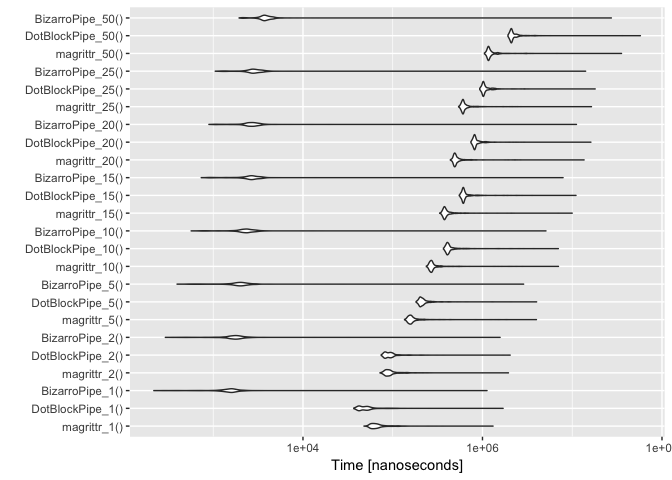
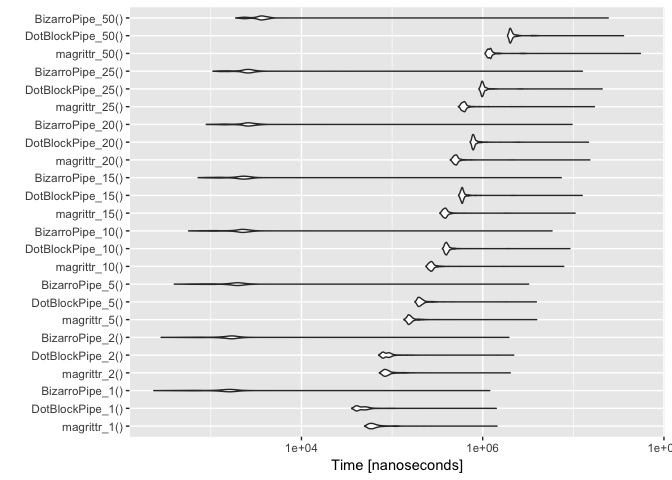
fix names, switch to dot block pipe, re-run

diff --git a/extras/PipePerformance.md b/extras/PipePerformance.md
@@ -6,7 +6,7 @@ So we will compare:
 
 -   `magrittr*` `magrittr::%>%` substitution.
 -   `DotBlockPipe*` `wrapr::%.>%` substitution.
--   `BizarroPipe*` `%->%` substitution.
+-   `BizarroPipe*` `->.;` substitution.
 
 ``` r
 library("microbenchmark")
@@ -100,55 +100,55 @@ print(bm)
 
     ## Unit: nanoseconds
     ##               expr     min        lq        mean    median        uq
-    ##       magrittr_1()   47910   58908.0   71817.553   64412.0   71990.0
-    ##   DotBlockPipe_1()   36828   42499.0   55758.271   48490.5   54572.0
-    ##    BizarroPipe_1()     218    1281.5    2612.513    1535.0    1729.0
-    ##       magrittr_2()   72195   84175.5  102198.356   90608.0   99014.5
-    ##   DotBlockPipe_2()   74504   83037.0  102210.099   90956.5   99263.5
-    ##    BizarroPipe_2()     293    1491.0    4547.017    1736.5    1973.0
-    ##       magrittr_5()  135445  152112.0  183399.108  160059.0  171509.5
-    ##   DotBlockPipe_5()  182178  201129.0  232582.597  211000.5  226030.5
-    ##    BizarroPipe_5()     396    1660.0    4833.152    1962.0    2238.0
-    ##      magrittr_10()  237164  261523.5  309981.789  271636.0  287165.5
-    ##  DotBlockPipe_10()  367742  400036.5  476205.566  414518.5  440082.0
-    ##   BizarroPipe_10()     568    2005.5    7402.956    2312.0    2645.5
-    ##      magrittr_15()  333154  370912.0  431708.445  383412.5  407987.0
-    ##  DotBlockPipe_15()  550780  599005.0  674982.800  616721.0  643054.5
-    ##   BizarroPipe_15()     736    2257.0   10479.704    2639.5    2993.5
-    ##      magrittr_20()  439156  483494.0  562019.036  499247.5  530138.5
-    ##  DotBlockPipe_20()  743924  801646.0  891919.623  824291.5  875714.5
-    ##   BizarroPipe_20()     896    2338.0   13805.195    2657.0    3002.5
-    ##      magrittr_25()  542354  594943.0  675267.448  612798.0  648748.0
-    ##  DotBlockPipe_25()  932516 1006112.0 1127922.400 1035132.0 1106644.5
-    ##   BizarroPipe_25()    1053    2510.5   16928.549    2829.0    3236.5
-    ##      magrittr_50() 1052330 1148805.5 1317047.834 1182381.0 1257919.0
-    ##  DotBlockPipe_50() 1923771 2066405.0 2344830.673 2122579.0 2306038.5
-    ##   BizarroPipe_50()    1944    3469.5   31100.647    3776.0    4194.5
+    ##       magrittr_1()   49785   56912.5   69493.461   61248.0   68033.5
+    ##   DotBlockPipe_1()   35843   40754.5   49773.803   45063.0   51652.5
+    ##    BizarroPipe_1()     235    1007.0    2574.675    1483.5    1738.0
+    ##       magrittr_2()   72442   81543.5   94173.487   86616.0   93575.0
+    ##   DotBlockPipe_2()   71109   79621.0   97903.294   87159.5   95066.5
+    ##    BizarroPipe_2()     283    1224.5    3460.313    1596.5    1815.5
+    ##       magrittr_5()  134732  150432.0  169389.760  156668.5  166102.0
+    ##   DotBlockPipe_5()  178816  195179.0  224559.392  204326.5  217448.0
+    ##    BizarroPipe_5()     395    1409.5    4951.969    1859.0    2124.5
+    ##      magrittr_10()  236226  259765.5  295810.353  271615.5  284856.5
+    ##  DotBlockPipe_10()  359045  387702.0  430698.131  400453.5  417779.0
+    ##   BizarroPipe_10()     569    1690.5    7909.038    2161.0    2454.5
+    ##      magrittr_15()  336208  370699.5  423379.597  386789.0  403934.0
+    ##  DotBlockPipe_15()  541747  581219.5  639857.959  596953.5  616747.5
+    ##   BizarroPipe_15()     725    1643.5    9429.208    2185.0    2486.5
+    ##      magrittr_20()  438164  484500.0  547503.970  506089.5  526963.0
+    ##  DotBlockPipe_20()  726609  773966.5  869269.764  794647.5  824726.5
+    ##   BizarroPipe_20()     890    2054.5   12136.100    2523.0    2842.5
+    ##      magrittr_25()  539184  595130.5  677442.105  623097.5  648832.5
+    ##  DotBlockPipe_25()  908188  972307.5 1068904.649  998401.0 1033680.0
+    ##   BizarroPipe_25()    1055    2129.5   15094.721    2493.5    2799.0
+    ##      magrittr_50() 1060972 1146916.0 1362917.546 1205028.0 1251479.5
+    ##  DotBlockPipe_50() 1880236 1993322.0 2194177.990 2045266.5 2139704.0
+    ##   BizarroPipe_50()    1883    2945.5   27738.108    3542.5    3899.5
     ##       max neval
-    ##   1311071  1000
-    ##   1697744  1000
-    ##   1123363  1000
-    ##   1946498  1000
-    ##   2034688  1000
-    ##   1571328  1000
-    ##   3991477  1000
-    ##   4010409  1000
-    ##   2874873  1000
-    ##   7025186  1000
-    ##   7001563  1000
-    ##   5095912  1000
-    ##   9985808  1000
-    ##  11010132  1000
-    ##   7903346  1000
-    ##  13554159  1000
-    ##  16133461  1000
-    ##  11143236  1000
-    ##  16373739  1000
-    ##  18006142  1000
-    ##  14098287  1000
-    ##  35398057  1000
-    ##  57430530  1000
-    ##  27278576  1000
+    ##   1438948  1000
+    ##   1412537  1000
+    ##   1197516  1000
+    ##   2014716  1000
+    ##   2201503  1000
+    ##   1945315  1000
+    ##   3936573  1000
+    ##   3907841  1000
+    ##   3211876  1000
+    ##   7841107  1000
+    ##   9174931  1000
+    ##   5822802  1000
+    ##  10457276  1000
+    ##  12526355  1000
+    ##   7360532  1000
+    ##  15202177  1000
+    ##  14699481  1000
+    ##   9688122  1000
+    ##  17094708  1000
+    ##  20796798  1000
+    ##  12602971  1000
+    ##  54939886  1000
+    ##  35825099  1000
+    ##  24298838  1000
 
 ``` r
 autoplot(bm)
@@ -187,13 +187,13 @@ mkPlot(d[d$fn %in% c('magrittr', 'DotBlockPipe'), , drop=FALSE],
 ``` r
 # fit a linear function for runtime as a function of size
 # per group.
-fits <- d %>%
-  split(., .$fn) %>%
+fits <- d %.>%
+  split(., .$fn) %.>%
   lapply(., 
          function(di) { 
            lm(time ~ size, data=di) 
-         }) %>%
-  lapply(., coefficients) %>%
+         }) %.>%
+  lapply(., coefficients) %.>%
   lapply(., 
          function(ri) {
            data.frame(Intercept= ri[["(Intercept)"]],
@@ -207,10 +207,10 @@ dfits$fn <- names(fits)
 print(dfits)
 ```
 
-    ##   Intercept       size           fn
-    ## 1  2257.676   575.3776  BizarroPipe
-    ## 2 -4801.403 46443.9316 DotBlockPipe
-    ## 3 52417.240 25266.4192     magrittr
+    ##    Intercept       size           fn
+    ## 1  2297.5922   507.1359  BizarroPipe
+    ## 2  -817.0898 43606.8883 DotBlockPipe
+    ## 3 34019.6226 26312.1351     magrittr
 
 ``` r
 # solve for size where two lines interesect.
@@ -228,15 +228,15 @@ crossingPoint <- solve(dfits, 'DotBlockPipe', 'magrittr')
 print(crossingPoint)
 ```
 
-    ## [1] 2.701859
+    ## [1] 2.014294
 
 ``` r
 ratio <- dfits$size[dfits$fn=='DotBlockPipe'] / dfits$size[dfits$fn=='magrittr']
 print(ratio)
 ```
 
-    ## [1] 1.838168
+    ## [1] 1.657292
 
 Overall:
 
-DotBlockPipe is about 1.8 times slower than magrittr on large pipelines, though this cost will be unnoticeable with in any significant workload.
+DotBlockPipe is about 1.7 times slower than magrittr on large pipelines, though this cost will be unnoticeable with in any significant workload.
